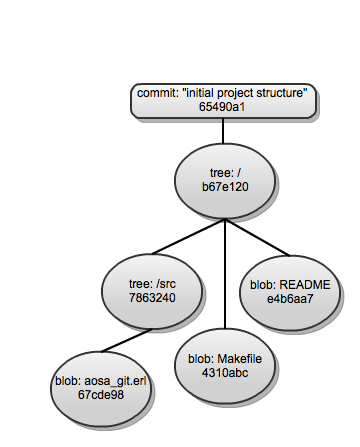
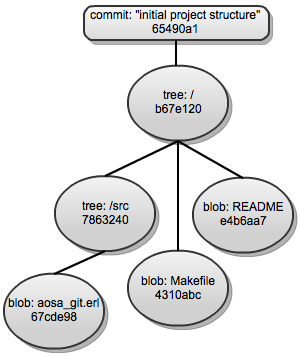
Fiddled with image sizes for layout
git-svn-id: http://www.aosabook.org/svn/volume2@904 dd5aa6cc-de63-413d-92ad-03a14aac4e6a

diff --git a/tex/en/git.tex b/tex/en/git.tex
@@ -140,7 +140,7 @@ Another primary difference between Git, Subversion and its linear history
 ancenstors, is its ability to directly support branching that will record
 most merge history cases.
 
-\aosafigure{../images/git/dag-example.png}{Example of a DAG representation
+\aosafigure[200pt]{../images/git/dag-example.png}{Example of a DAG representation
   in Git}{fig.git.dag}
 
 Git enables full branching capability using directed acyclic
@@ -458,7 +458,7 @@ Git tackles the storage space problem by "packing" objects in a compressed
 format using an index file to point to offsets to specific objects in the
 corresponding \emph{packed} file.
 
-\aosafigure{../images/git/packed-format.png}{Diagram of a pack file with
+\aosafigure[200pt]{../images/git/packed-format.png}{Diagram of a pack file with
   corresponding index file}{fig.git.pack}
 
 We can count the number of \emph{loose} (or unpacked) objects in the local
@@ -495,6 +495,9 @@ file or tree history has a linear progression. Whatever has a higher revision
 number will supercede anything before it. Branching is not supported directly,
 only through an unenforced directory structure within the repository.
 
+\aosafigure[150pt]{../images/git/merge-history.png}{Diagram showing merge history
+ lineage}{fig.git.merge}
+
 Let us first use an example to show how this can be problematic when
 maintaining multiple branches of a work. Then we will look at a scenario to
 show its limitations.
@@ -527,9 +530,6 @@ parents. Therefore the merge commit on the \code{db-migration} branch
 HEAD of the other upstream branch through the SHA hashes of the parents.
 The same is true of the merge commit in the \code{master} (the \code{trunk}
 equivalent in Git).
-
-\aosafigure{../images/git/merge-history.png}{Diagram showing merge history
- lineage}{fig.git.merge}
 
 A question that is hard to answer definitively using DAG (and linear) based
 merge histories is which commits are contained within each branch. For
